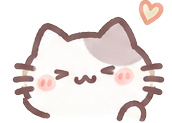
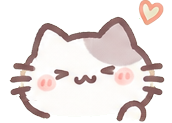
나비 볼 이음매를 맞추고, 나비 카드와 새 아이콘을 들인다
나비 왼쪽 볼은 오른쪽 볼 띠를 뒤집어 얹는데, 오른쪽 얼굴선은 아래로
갈수록 안쪽으로 들어가 있다. 그대로 뒤집으니 띠 아래 끝에서 외곽선이
3~5px 어긋나고 가늘어져 볼이 깨진 것처럼 보였다. mirror 에 기울기를
더해 띠를 아래로 갈수록 5칸까지 바깥으로 밀어 얹고, 띠를 발 바로
위까지 늘려 원래 외곽선과 잇는다. 그 아래 두 줄에 걸친 옆 고양이 수염
끝은 막아 지운다. 다른 그림은 한 픽셀도 바뀌지 않는다.

기본 카드에 세 번째 묶음으로 나비 한 장을 더했다. '소소한 행복 —
오늘 나를 웃게 한 것', 분홍 카드에 발바닥 표시, 하트 목록이다. 쓰던
기기에도 한 번만 뒤에 붙는다.

'하나씩 해볼까'와 '소소한 행복'은 처음부터 고정된 메모로 선다. 쓰던
기기에서는 글귀 손보기(fixups 4)가 한 번 돌며 붙박는다. 한 번뿐이라
떼어 낸 뒤에 다시 붙지는 않는다. 배경 기본값은 원래대로 '종이'다.

첫 화면이 붙박은 할 일 카드로 서므로, 줄 쓰기와 차례를 보는 테스트는
붙박기를 떼고 시작한다. 붙박은 모습은 seed_cards_test 가 따로 지킨다.
화면 갈무리는 새 차례와 나비 그림대로 다시 찍었다.

앱 아이콘을 흰 메모지 귀퉁이에 고양이가 앉은 그림으로 바꿨다. iOS 와
macOS 의 모든 크기를 그 한 장에서 뽑았다. 아이콘 원본과 함께 작업하며
남긴 시안들도 담는다.

Changed region(s): [[0.0581, 0.5122, 0.2326, 0.8293], [0.0581, 0.5122, 0.1453, 0.561]]

diff --git a/lib/data/memo_store.dart b/lib/data/memo_store.dart
@@ -175,19 +175,24 @@ class MemoStore extends ChangeNotifier {
 
   /// 지금까지 넣어 둔 기본 카드 묶음의 수. 이미 쓰던 기기에도 새로 추가된
   /// 묶음이 한 번은 들어오도록 [load] 에서 이 값을 비교한다.
-  static const seedSets = 2;
+  static const seedSets = 3;
 
   /// 이미 만들어 둔 카드의 글귀를 손본 횟수. 새 값을 올리면 쓰던 기기에서도
   /// [_applyFixups] 가 한 번 돈다.
-  static const fixups = 3;
+  static const fixups = 4;
 
-  /// 묶음마다 어디서 시작하는지. 첫 묶음이 여섯 장, 두 번째가 다섯 장이라
-  /// 한 묶음의 크기로 셈하지 않고 자리를 그대로 적어 둔다.
-  static const _setStarts = [0, 6];
+  /// 처음부터 목록 맨 위에 붙박아 두는 기본 카드의 제목.
+  static const pinnedSeeds = {'하나씩 해볼까', '소소한 행복'};
 
-  /// 첫 실행에 놓이는 열한 장. 컨셉아트 두 장의 구성 그대로다 — 한 장은
-  /// 나중에 걷어냈고, 이미 받아 간 기기에서만 [_applyFixups] 가 흔적으로
-  /// 남긴다. 이 구성은 test/seed_cards_test.dart 가 통째로 지킨다.
+  /// 묶음마다 어디서 시작하는지. 첫 묶음이 여섯 장, 두 번째가 다섯 장,
+  /// 세 번째가 한 장이라 한 묶음의 크기로 셈하지 않고 자리를 그대로 적어
+  /// 둔다.
+  static const _setStarts = [0, 6, 11];
+
+  /// 첫 실행에 놓이는 열두 장. 컨셉아트 두 장의 구성에 나비 한 장을
+  /// 더했다 — 한 장은 나중에 걷어냈고, 이미 받아 간 기기에서만
+  /// [_applyFixups] 가 흔적으로 남긴다. 이 구성은 test/seed_cards_test.dart
+  /// 가 통째로 지킨다.
   void _seed({int from = 0}) {
     final seeds =
         <
@@ -316,6 +321,17 @@ class MemoStore extends ChangeNotifier {
             kind: BoardKind.note,
             lines: <String>[],
           ),
+          // 세 번째 묶음. 윙크하며 앞발을 올린 나비.
+          (
+            title: '소소한 행복',
+            subtitle: '오늘 나를 웃게 한 것',
+            color: 'blossom',
+            cat: 'nabi',
+            badge: 'paw',
+            pose: CatPose.peekBottom,
+            kind: BoardKind.hearts,
+            lines: <String>[],
+          ),
         ];
 
     // 한 묶음을 같은 때에 놓는다. 마이크로초 차이로 '편집일 순'이
@@ -335,6 +351,7 @@ class MemoStore extends ChangeNotifier {
         order: i,
       );
       board.updatedAt = stamp;
+      if (pinnedSeeds.contains(s.title)) board.pinnedAt = stamp;
       _boards.add(board);
       for (var k = 0; k < s.lines.length; k++) {
         _entries.add(
@@ -348,6 +365,7 @@ class MemoStore extends ChangeNotifier {
   void _applyFixups() {
     // 고를 수 없게 된 표시를 쓰던 카드는 남아 있는 것으로 옮긴다.
     const movedBadges = {'flower': 'spark', 'clover': 'sprout'};
+    final stamp = DateTime.now().toUtc();
     for (final board in _boards) {
       // 노을과 '마음 비우기'는 걷어냈다. 지운 흔적만 남기므로 예전
       // 되살릴 수 있다.
@@ -359,6 +377,8 @@ class MemoStore extends ChangeNotifier {
       if (board.title == '잠깐 쉬어가기') board.subtitle = '천천히 해도 괜찮아';
       final moved = movedBadges[board.badgeKey];
       if (moved != null) board.badgeKey = moved;
+      // 할 일 카드와 나비 카드는 처음부터 목록 맨 위에 붙박아 둔다.
+      if (pinnedSeeds.contains(board.title)) board.pinnedAt ??= stamp;
     }
   }
 

diff --git a/test/seed_cards_test.dart b/test/seed_cards_test.dart
@@ -6,7 +6,7 @@ import 'package:malang_cat/widgets/cat_face.dart';
 
 /// 앱을 처음 깔면 놓이는 카드들.
 ///
-/// 이 열한 장은 앱을 켜자마자 눈에 들어오는 첫인상이라, 한 장을 손보다
+/// 이 열두 장은 앱을 켜자마자 눈에 들어오는 첫인상이라, 한 장을 손보다
 /// 옆 장이 함께 어긋나는 일이 없도록 구성을 통째로 적어 둔다. 여기가
 /// 어긋나면 바꾼 쪽이 맞는지 이 표를 보고 정한다.
 void main() {
@@ -104,14 +104,25 @@ void main() {
       CatPose.peekTop,
       BoardKind.note,
     ),
+    // 세 번째 묶음.
+    (
+      '소소한 행복',
+      '오늘 나를 웃게 한 것',
+      'nabi',
+      'blossom',
+      'paw',
+      CatPose.peekBottom,
+      BoardKind.hearts,
+    ),
   ];
 
   final store = MemoStore.instance;
 
   setUp(store.debugSeed);
 
-  test('갓 깐 기기에는 이 열한 장이 이 차례로 놓인다', () {
-    final got = store.boards
+  test('갓 깐 기기에는 이 열두 장이 이 차례로 놓인다', () {
+    final laid = [...store.boards]..sort((a, b) => a.order.compareTo(b.order));
+    final got = laid
         .map(
           (b) => (
             b.title,
@@ -125,6 +136,11 @@ void main() {
         )
         .toList();
     expect(got, seeded);
+  });
+
+  test('할 일 카드와 나비 카드는 처음부터 맨 위에 붙박혀 있다', () {
+    expect(store.pinnedBoards.map((b) => b.title), ['하나씩 해볼까', '소소한 행복']);
+    expect(store.looseBoards.first.title, '오늘의 메모');
   });
 
   test('할 일 카드에는 시작할 거리가 세 줄 들어 있다', () {

diff --git a/test/board_order_test.dart b/test/board_order_test.dart
@@ -8,6 +8,11 @@ void main() {
 
   setUp(() {
     store.debugSeed();
+    // 차례만 보려고 기본으로 붙박아 둔 카드는 떼어 둔다. 붙박은 채로
+    // 서는 모습은 test/seed_cards_test.dart 가 지킨다.
+    for (final b in store.pinnedBoards) {
+      store.togglePin(b.id);
+    }
     store.setSort(BoardSort.edited);
   });
 
@@ -15,7 +20,7 @@ void main() {
     // 기본 카드는 모두 같은 때에 놓인다. 마이크로초 차이로 줄이
     // 뒤집히면 처음 켠 사람이 '내일 또 만나'부터 보게 된다.
     expect(store.boards.first.title, '오늘의 메모');
-    expect(store.boards.last.title, '내일 또 만나');
+    expect(store.boards.last.title, '소소한 행복');
   });
 
   test('편집일 순은 마지막으로 손댄 카드를 앞에 세운다', () {

diff --git a/test/home_golden_test.dart b/test/home_golden_test.dart
@@ -64,6 +64,12 @@ void main() {
     await precacheArtwork(tester);
     await tester.pumpAndSettle();
     expect(tester.takeException(), isNull);
+    // 처음 켜면 맨 위에 붙박아 둔 할 일 카드가 선다.
+    expect(find.byType(TextField), findsNWidgets(3));
+    await tester.tap(find.byTooltip('목록'));
+    await tester.pumpAndSettle();
+    await tester.tap(find.text('오늘의 메모').last);
+    await tester.pumpAndSettle();
     await tester.tap(find.bySemanticsLabel('줄 추가').first);
     await tester.pumpAndSettle();
     await tester.enterText(find.byType(TextField), '오늘의 작은 행복');

diff --git a/test/entry_line_test.dart b/test/entry_line_test.dart
@@ -12,6 +12,11 @@ void main() {
       ..devicePixelRatio = 1.0;
     addTearDown(tester.view.reset);
     MemoStore.instance.debugSeed();
+    // 줄 쓰기는 붙박기와 상관없다. 기본으로 붙박아 둔 카드를 떼어,
+    // 첫 화면이 빈 '오늘의 메모'로 서게 한다.
+    for (final b in MemoStore.instance.pinnedBoards) {
+      MemoStore.instance.togglePin(b.id);
+    }
     await tester.pumpWidget(
       const MaterialApp(debugShowCheckedModeBanner: false, home: HomeScreen()),
     );

diff --git a/tool/cutout_artwork.py b/tool/cutout_artwork.py
@@ -51,7 +51,9 @@ class Art:
            픽셀에는 바로 위 픽셀 색을 내려 받아, 털 색이 테두리까지
            이어진다.
     mirror 오려낸 뒤 한 자리를 좌우로 뒤집어 다른 자리에 얹는다.
-           ((L,T,R,B), 놓을 왼쪽 x) 꼴. 원본에서 옆 그림과 얽혀 도저히
+           ((L,T,R,B), 놓을 왼쪽 x[, 기울기]) 꼴. 기울기를 주면 띠 아래
+           끝으로 갈수록 그만큼(음수면 왼쪽으로) 밀어 얹어, 양쪽 얼굴선이
+           대칭이 아닌 자리에서도 이음매가 맞는다. 원본에서 옆 그림과 얽혀 도저히
            갈라낼 수 없는 자리에만 쓴다 — 그림을 새로 그리는 것이 아니라
            그 아이 몸에서 온 획을 그대로 옮긴다.
     wall   지우기가 넘어가지 못하는 사각형 (LTRB). 옆 그림이 칸에 걸쳐
@@ -113,12 +115,16 @@ ARTS = {
     # 밝은 것만 걷는다.
     "nabi": Art((812, 793, 984, 916), speck=20,
                 # 축은 x = 900 — 양쪽 외곽선 바깥 끝이 840 과 960 이다.
-                # 띠의 위아래 끝은 양쪽 외곽선이 같은 자리에 오는 줄이다.
+                # 띠 위끝은 양쪽 외곽선이 같은 자리에 오는 줄이다. 오른쪽
+                # 얼굴선은 아래로 갈수록 안쪽으로 들어가 있어, 그대로 뒤집으면
+                # 띠 아래 끝에서 외곽선이 어긋나고 가늘어진다. 아래로 갈수록
+                # 5칸까지 바깥으로 밀어 발 바로 위에서 원래 외곽선과 잇는다.
+                # 그 아래 두 줄에 걸친 옆 고양이 수염 끝은 막아 지운다.
                 wall=((796, 770, 812, 930), (812, 785, 830, 930),
-                      (812, 851, 845, 891), (830, 891, 835, 896)),
+                      (812, 851, 845, 894), (826, 894, 834, 896)),
                 bleach=((884, 796, 918, 822, 180),),
                 blend=4,
-                mirror=(((952, 851, 985, 891), 816),)),
+                mirror=(((952, 851, 985, 894), 816, -5),)),
     # 왼쪽 위로 카드 괘선이 지나간다.
     "kongi": Art((1262, 761, 1468, 915), erase=((1262, 776, 1298, 784),)),
     # 구름과 손글씨 제목. 수채 번짐이 옅어 기준을 더 좁게 잡는다.
@@ -335,13 +341,17 @@ def cut(name, art):
                 if fur and lum[i] > 200:
                     raw[i * 3:i * 3 + 3] = fur
                 alpha[i] = 255
-    for (sl, st, sr, sb), dl in art.mirror:
+    for (sl, st, sr, sb), dl, *lean in art.mirror:
         # 오른쪽 끝 몇 칸은 원래 그림과 섞어 이음매가 선으로 보이지 않게 한다.
         last = dl + (sr - 1 - sl)
+        lean = lean[0] if lean else 0
         for y in range(st, sb):
-            for x in range(sl, sr):
+            # 아래로 갈수록 떠 올 자리를 옆으로 민다. 놓는 자리는 그대로라
+            # 막은 자리를 빈틈 없이 덮는다.
+            shift = round(lean * (y - st) / max(1, sb - 1 - st))
+            for here in range(dl, last + 1):
+                x = sr - 1 - (here - dl) + shift
                 sx, sy = x - cl, y - ct
-                here = dl + (sr - 1 - x)
                 dx, dy = here - cl, y - ct
                 if not (0 <= sx < w and 0 <= sy < h):
                     continue
